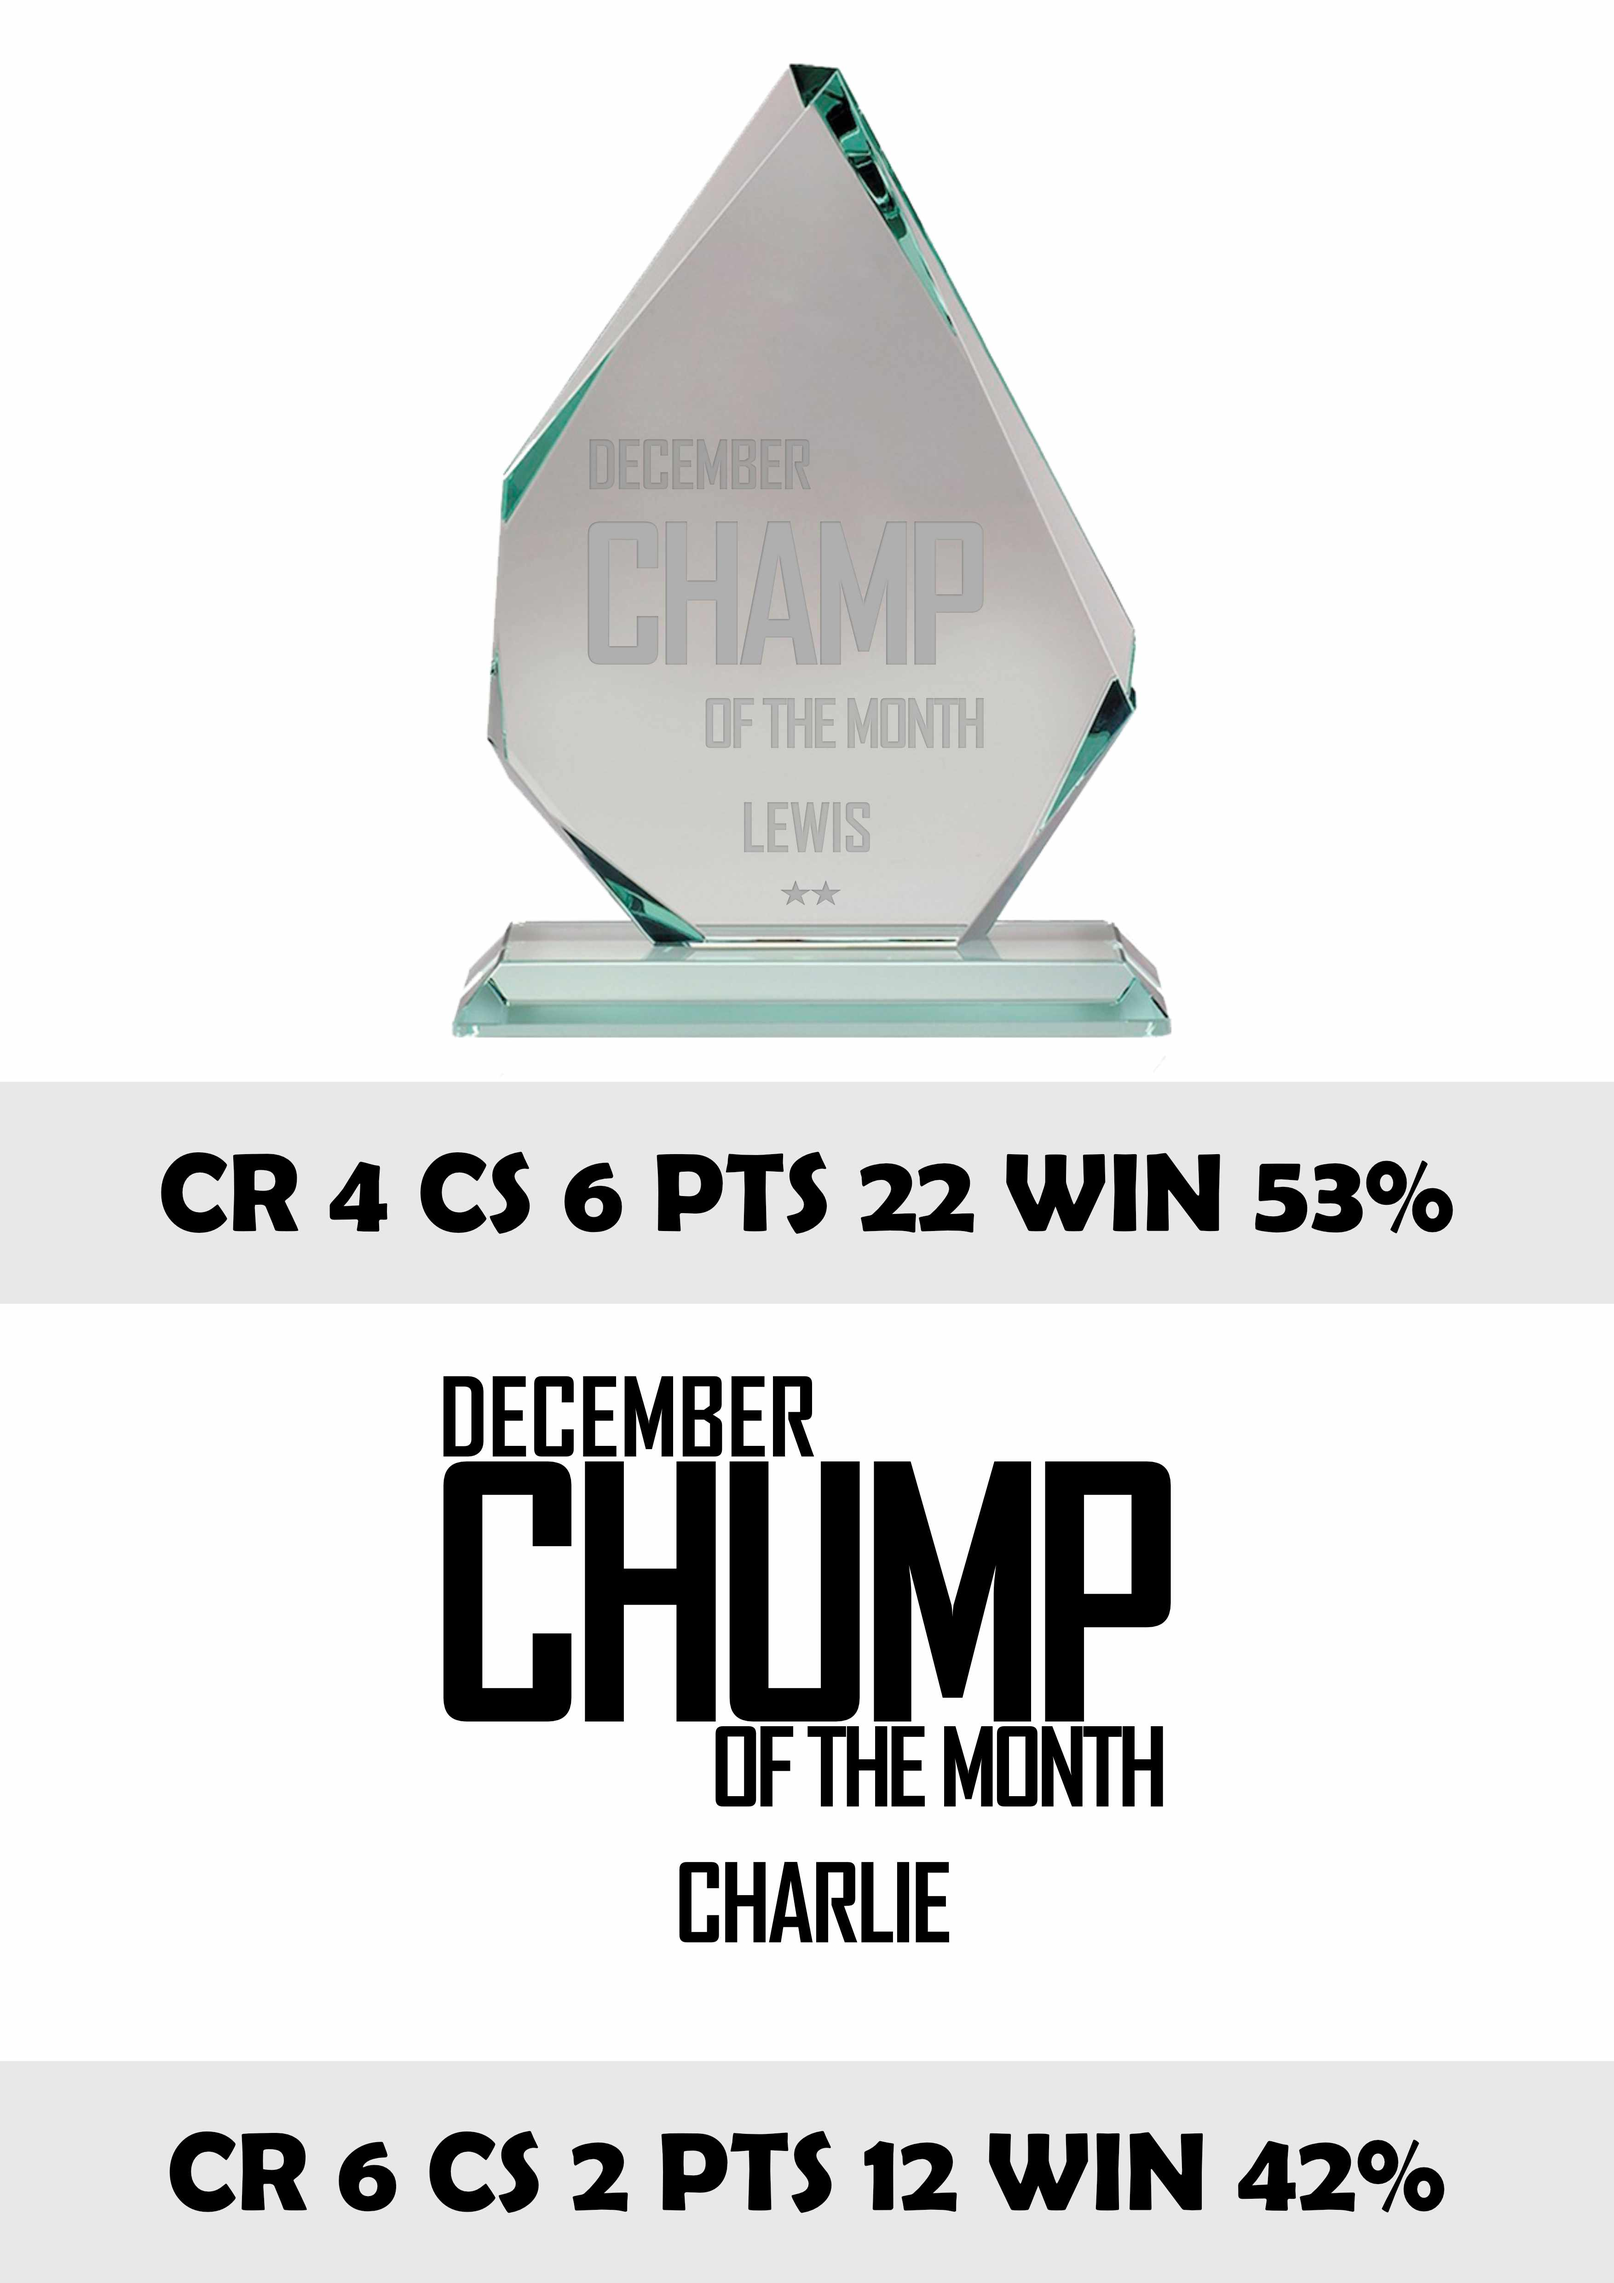
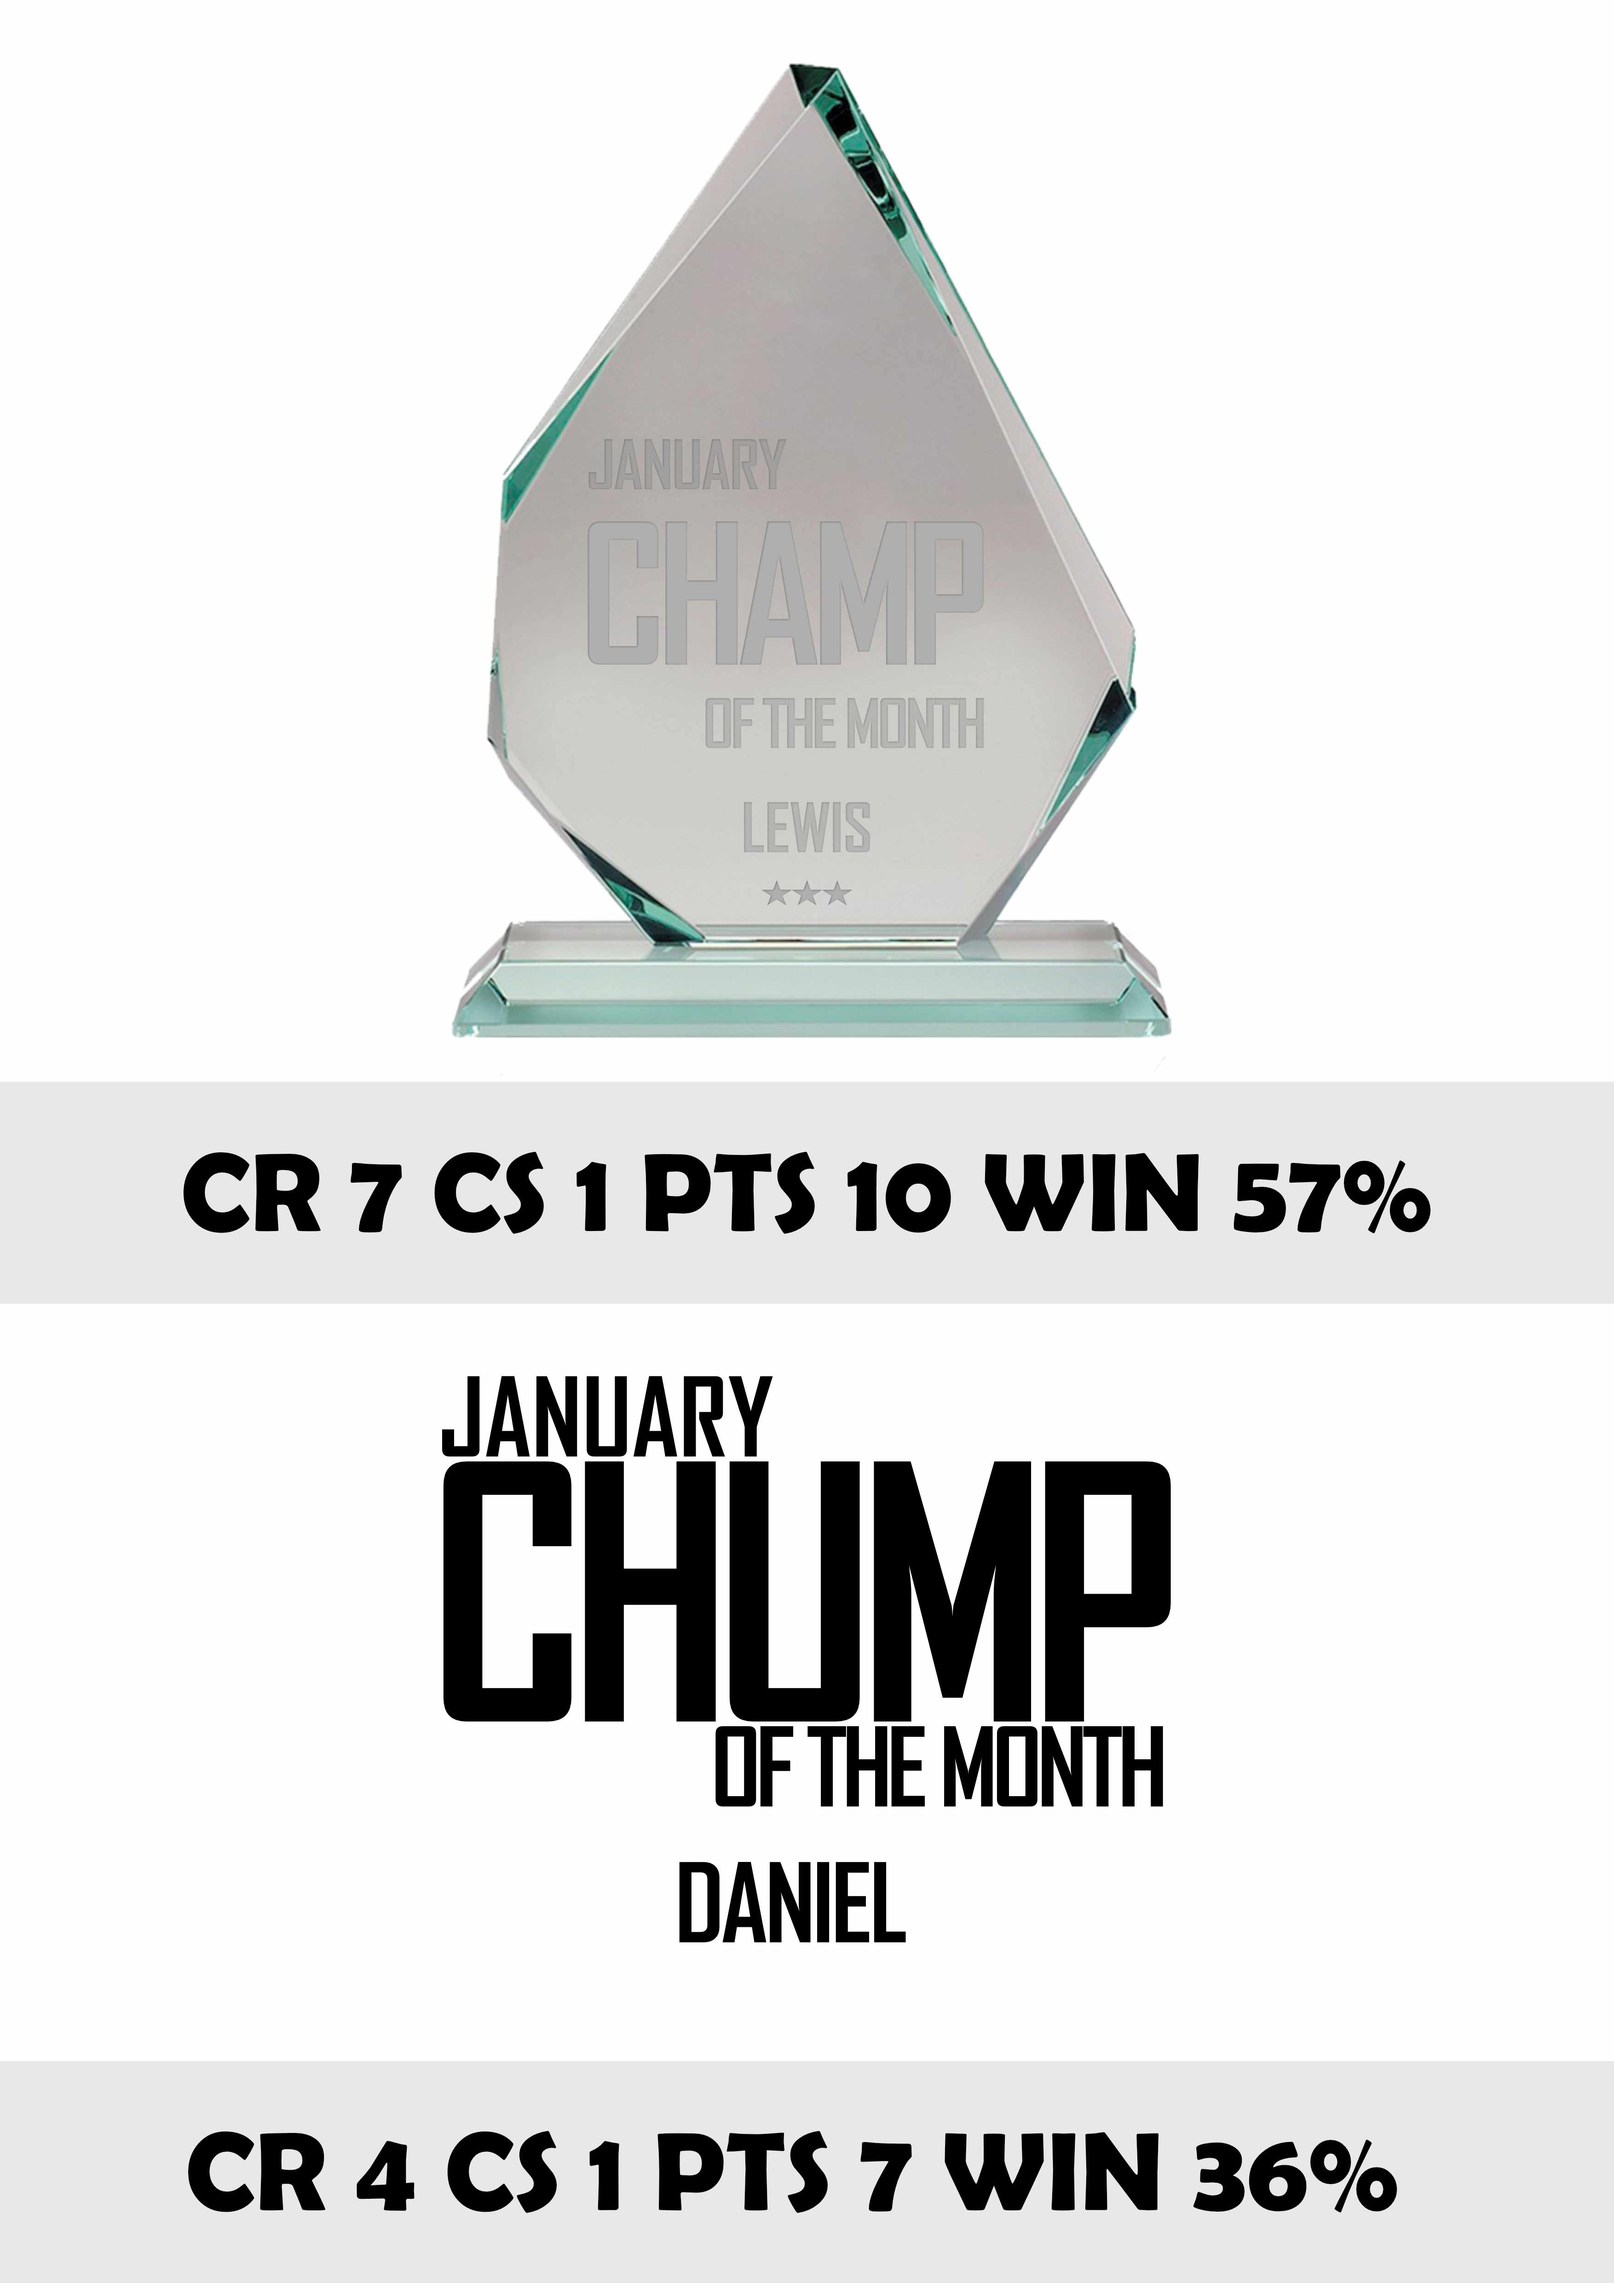
updates

diff --git a/index.html b/index.html
@@ -204,6 +204,44 @@ Trophy Cabinet</a>
 		  </tr>
  		</table> -->
 
+	<table class="new-table"> 
+		  <tr>
+		    <th class="new-teams">03.02.24</th> 
+		    <th class="prediction">Watford<br>v<br>Cardiff<br /><br />Result</th>
+		    <th class="prediction">Newport<br>v<br>Swindon<br /><br />Result </th>
+		    <th class="prediction">Salford<br>v<br>Wrexham<br /><br />Result </th>
+		  </tr>
+		  <tr>
+		    <td>Charlie</td>
+		    <td class=""></td>
+		    <td class=""></td>
+		    <td class=""></td>
+		  </tr>
+		  <tr>
+		    <td>Daniel</td>
+		    <td class="">1 - 1</td>
+		    <td class="">1 - 0</td>
+		    <td class="">0 - 2</td>
+		  </tr>
+		  <tr>
+		    <td>Gary</td>
+		    <td class=""></td>
+		    <td class=""></td>
+		    <td class=""></td>
+		  </tr>
+		  <tr>
+		    <td>Lewis</td>
+		    <td class="">2 - 1</td>
+		    <td class="">2 - 0</td>
+		    <td class="">1 - 2</td>
+		  </tr>
+		  <tr>
+		    <td>Richard</td>
+		    <td class=""></td>
+		    <td class=""></td>
+		    <td class=""></td>
+		  </tr>
+ 		</table>
  		<table class="new-table"> 
 		  <tr>
 		    <th class="new-teams">29.01.24<br>FA Cup</th> 

diff --git a/COTMA/index.html b/COTMA/index.html
@@ -39,6 +39,17 @@ Trophy Cabinet</a>
 		<table class="new-table">
 
 			<tr>
+		    <th class="new-teams">December</th> 
+		    <th class="prediction">Champ</th>
+		    <th class="prediction">Chump</th>
+		  </tr>
+		  <tr>
+		    <td></td>
+		    <td>Lewis<br> CR 4<br> CS 6<br>Pts 22<br>Win Rate 53%</td>
+		    <td>Charlie<br> CR 6<br> CS 2<br> Pts 12<br> Win Rate 42%</td>
+		  </tr>
+
+			<tr>
 		    <th class="new-teams">November</th> 
 		    <th class="prediction">Champ</th>
 		    <th class="prediction">Chump</th>
